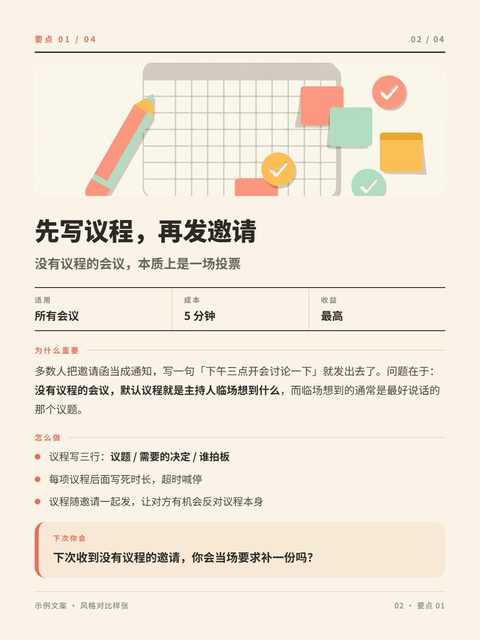
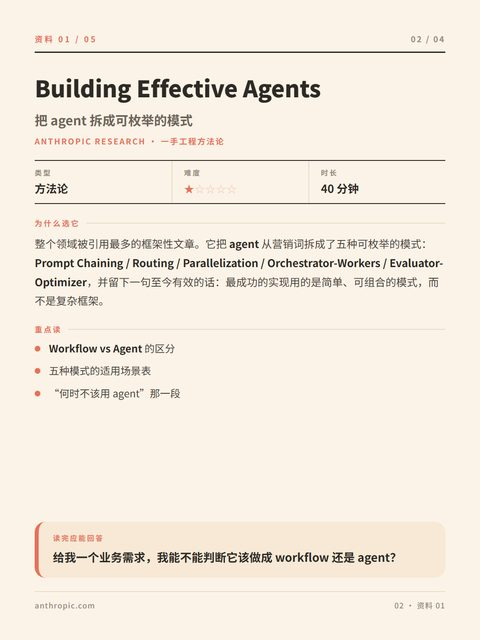
Gallery: re-render STYLE-06 with the same copy as every other style
The 06 gallery shot came from an old sample spec, so it was the one style in
the gallery not showing the Agent Engineering set. Re-rendered cover and
resource card from the shared copy, and allowed the subtitle to take an
explicit <br> so the CJK line stops stranding two characters ('径。') on the
last row. STYLE-01 regression is byte-identical.

diff --git a/scripts/render_cards.js b/scripts/render_cards.js
@@ -472,10 +472,14 @@ const BLOCKS = {
     // The oversized ghost numeral sits behind the headline. When the headline is a solid colour
     // slab it covers the numeral instead of layering with it, so drop it in that combination.
     const ghostHtml = titleBlock ? '' : `<div class="ghost">${esc(card.ghost || '')}</div>`;
+    // Escape first, then re-enable only <br>. CJK subtitles wrap wherever the box ends, which
+    // routinely strands one or two characters on the last line ("...学习路" / "径。"). Copy is
+    // allowed explicit line breaks but no other inline markup, so this is the single exception.
+    const subtitle = esc(card.subtitle).replace(/&lt;br\s*\/?&gt;/gi, '<br>');
     return (
       `${ghostHtml}<div class="body">` +
       `<div class="title${titleBlock ? ' tblock' : ''}">${(card.title || []).join('<br>')}</div>` +
-      `<div class="subtitle">${esc(card.subtitle)}</div>` +
+      `<div class="subtitle">${subtitle}</div>` +
       `<div class="vrule"></div>` +
       (toc ? `<div class="toc"><div class="lab">CONTENTS</div><ol>${toc}</ol></div>` : '') +
       statsHtml + hintHtml + `</div>`
